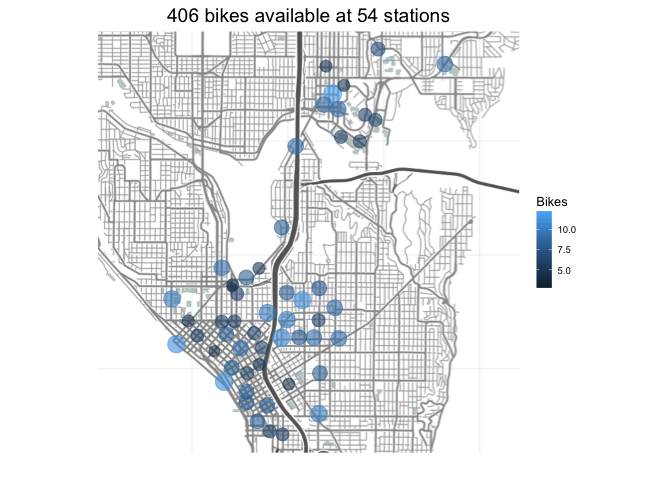
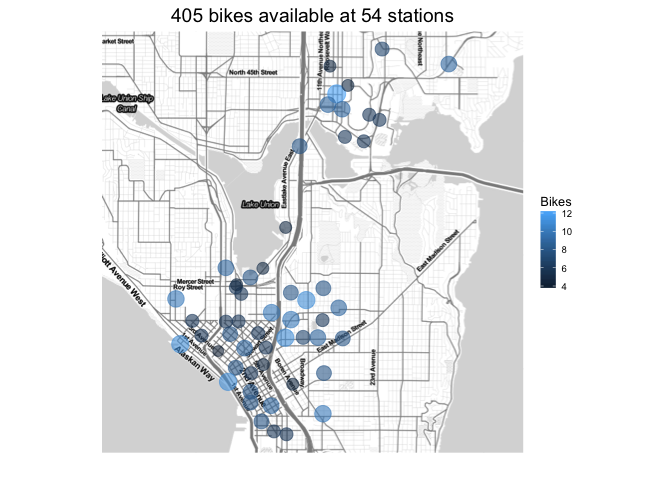
README updates

diff --git a/README.md b/README.md
@@ -66,8 +66,9 @@ avail <- s$stations %>%
     filter(su == FALSE) %>%
     summarise(StationsAvail=n(), BikesAvail=sum(ba))
 
-map <- get_map(location = c(lon=mean(range(s$stations$lo)), lat=mean(range(s$stations$la))),
-               zoom = 13, maptype = "terrain-lines")
+map <- get_map(location = c(lon=mean(range(s$stations$lo)),
+                            lat=mean(range(s$stations$la))),
+               zoom = 13, maptype = "toner-lite")
 p <- ggmap(map) +
     geom_point(data = s$stations,
                aes(x=lo, y=la, size=ba, color=ba), alpha = 0.6) +
@@ -108,7 +109,7 @@ for (i in seq(60)) {
 }
 
 map <- get_map(location = c(lon=mean(range(s$stations$lo)), lat=mean(range(s$stations$la))),
-               zoom = 13, maptype = "terrain-lines")
+               zoom = 13, maptype = "toner-lite")
 p <- ggmap(map) +
     geom_point(data = stationdata,
                aes(x=lo, y=la, size=ba, color=ba, frame = timestamp),
@@ -147,7 +148,7 @@ closest_station <- pronto_stations()$stations %>%
 
 cat(sprintf("The %s station is %.02f km away and has %d bike(s) available",
             closest_station$s, closest_station$dist_km, closest_station$ba))
-#> The E Blaine St & Fairview Ave E station is 0.59 km away and has 8 bike(s) available
+#> The E Blaine St & Fairview Ave E station is 0.59 km away and has 5 bike(s) available
 ```
 
 Disclaimer
